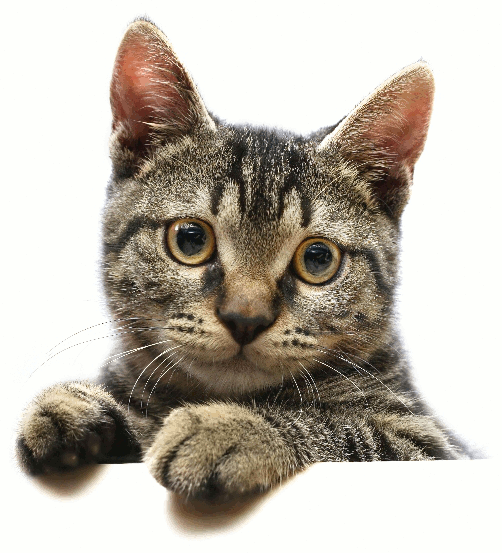
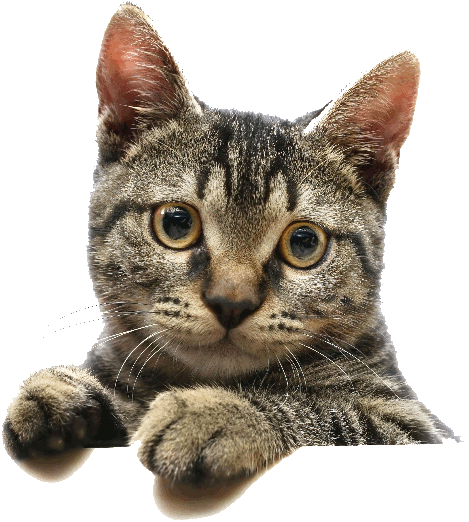
added ability to scale

diff --git a/js/draw.js b/js/draw.js
@@ -48,6 +48,11 @@ var draw = function(){
           switch (gesture.type){
             case "circle":
                 console.log("Circle Gesture");
+                //we will probably want to improve this as well
+                if(selectedImage != ''){
+                  increaseSize();
+                } 
+
                 break;
             case "keyTap":
                 console.log("Key Tap Gesture");
@@ -82,8 +87,6 @@ var draw = function(){
     $('img').each(function(){
       if(x > this.x && x < this.x + this.width && y > this.y && y < this.y + this.height){
         // won't work once we bring rotation into the mix but for now it'll do...
-        console.log(this);
-        console.log(this.id);
         selectedImage = this.id;
         $(this).css({"border-color": "#C1E0FF", 
                       "border-width":"1px", 
@@ -95,6 +98,11 @@ var draw = function(){
                       "border-style":"solid"});
       }
     });
+  }
+
+  function increaseSize(){
+    console.log('increasing');
+    $('#' + selectedImage).css({ "width": "+=" + $('#' + selectedImage).width() * .01, "height": "+=" + $('#' + selectedImage).height() * .01});
   }
 
   // listen to Leap Motion

diff --git a/js/image.js b/js/image.js
@@ -3,23 +3,23 @@ var loaders = [];
 
 var images = function(){
 
-	function loadSprite(src) {
+	function loadImage(src) {
 	    var deferred = $.Deferred();
-	    var sprite = new Image();
+	    var img = new Image();
 
-	    sprite.onload = function() {
-	    	imageArray.push(sprite);
+	    img.onload = function() {
+	    	imageArray.push(img);
 	        deferred.resolve();
 	    };
 
-	    sprite.src = src;
+	    img.src = src;
 
 	    return deferred.promise();
 	}
 
 	this.initialiseImages = function(){
 		for(var i = 1; i < 6; i++){
-			loaders.push(loadSprite('/image/' + i + '.png'));
+			loaders.push(loadImage('/image/' + i + '.png'));
 		}
 	};
 
